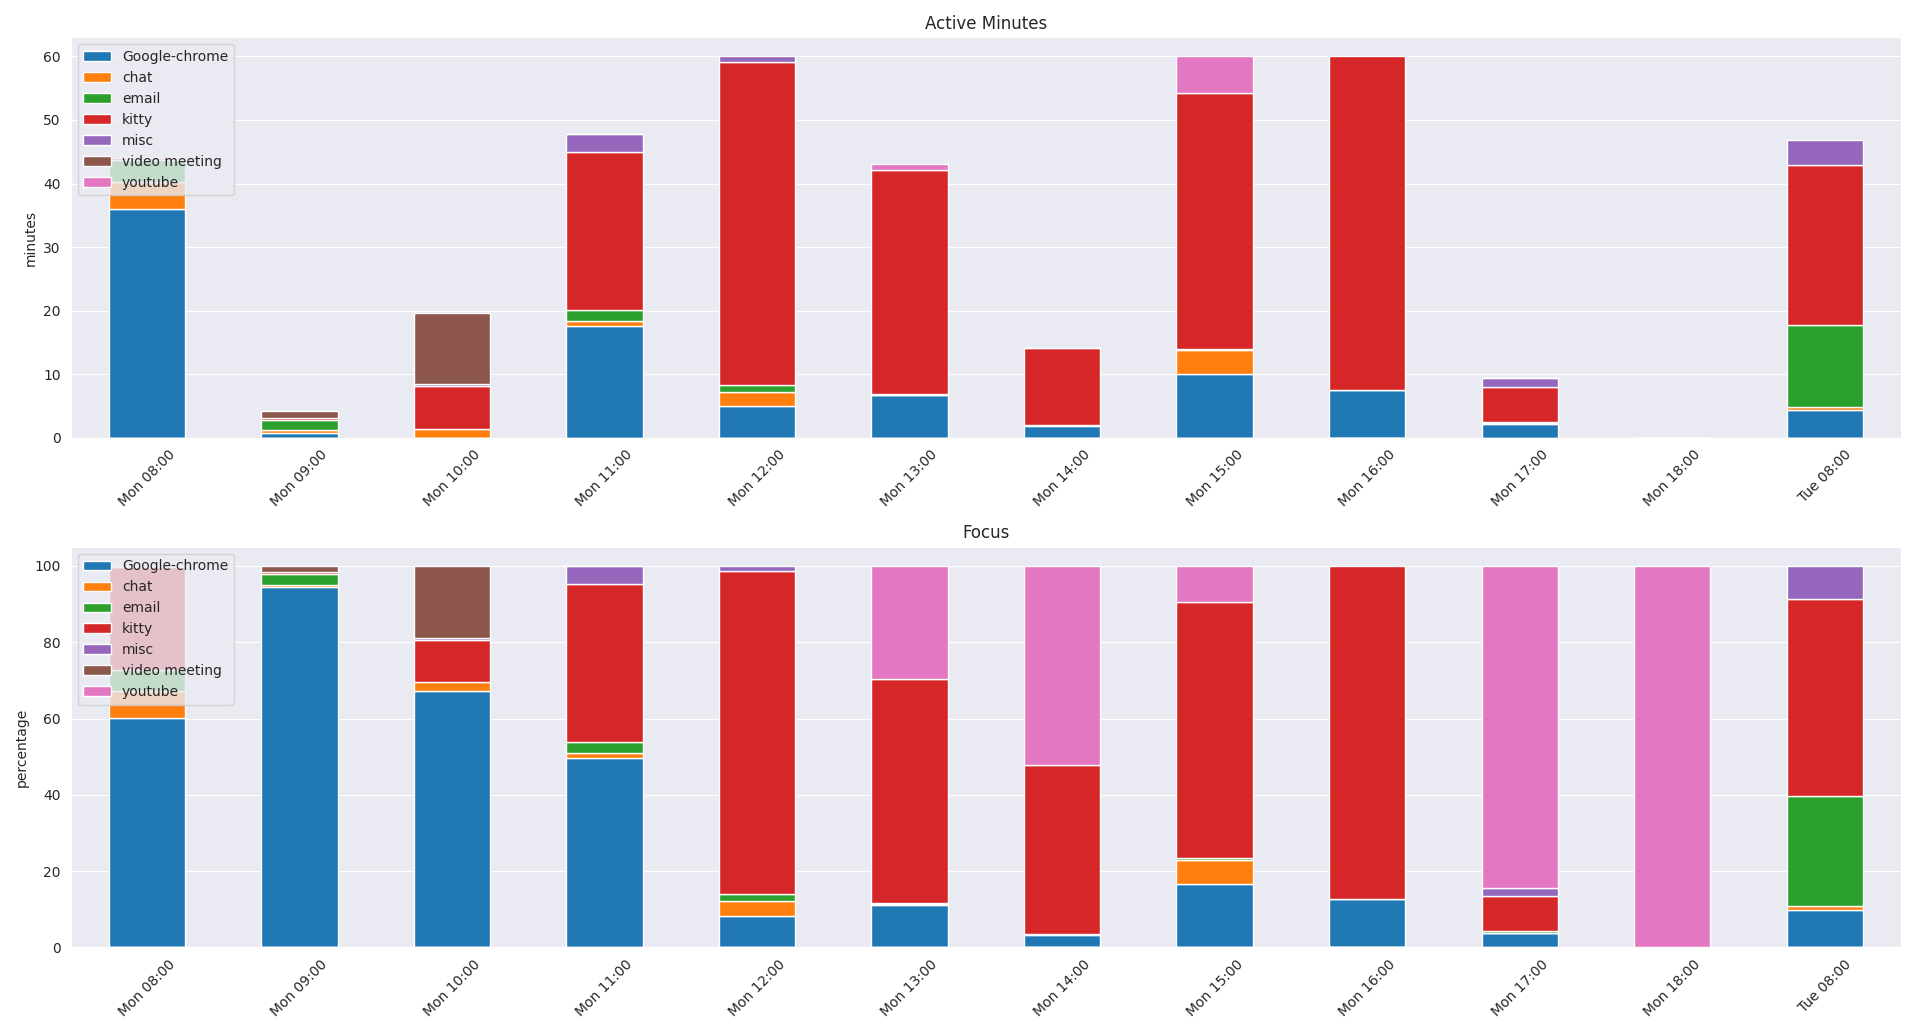
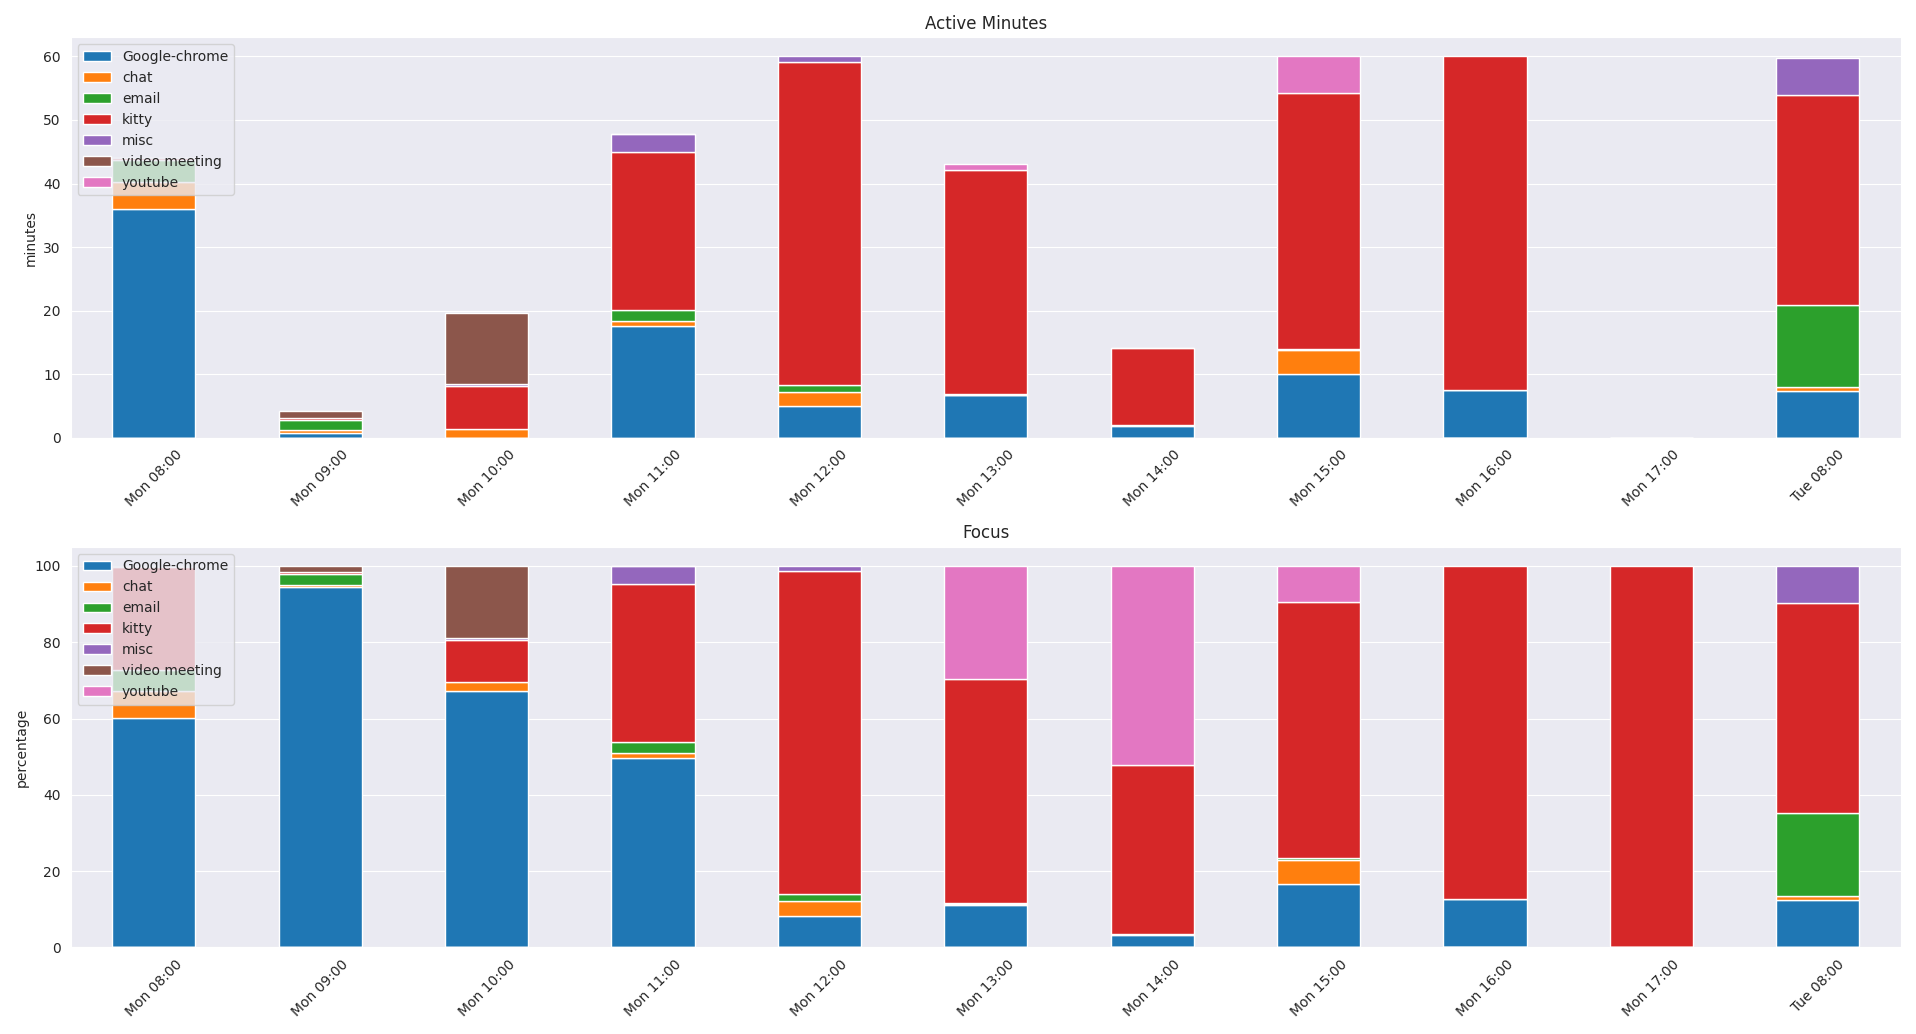
Add daily example to README.md

diff --git a/README.md b/README.md
@@ -70,9 +70,14 @@ The default grouping frequency is 60 minutes ("60min"). To change it use the
 `-f` option and provide a valid freq as described in the [pandas
 documentation](https://pandas.pydata.org/pandas-docs/stable/user_guide/timeseries.html#offset-aliases).
 
-Example
-=======
+Examples
+========
 ```
-dowut -b '8:00am 6:00pm' -s 2021-01-04 -c categories.json
+dowut -b '8:00am 5:00pm' -s 2021-01-04 -c categories.json
 ```
-![Example](https://github.com/csams/dowut/blob/main/activity.png)
+![Hourly Example](https://github.com/csams/dowut/blob/main/activity.png)
+
+```
+dowut -b '8:00am 5:00pm' -f 1D -c categories.json
+```
+![Daily Example](https://github.com/csams/dowut/blob/main/activity2.png)
